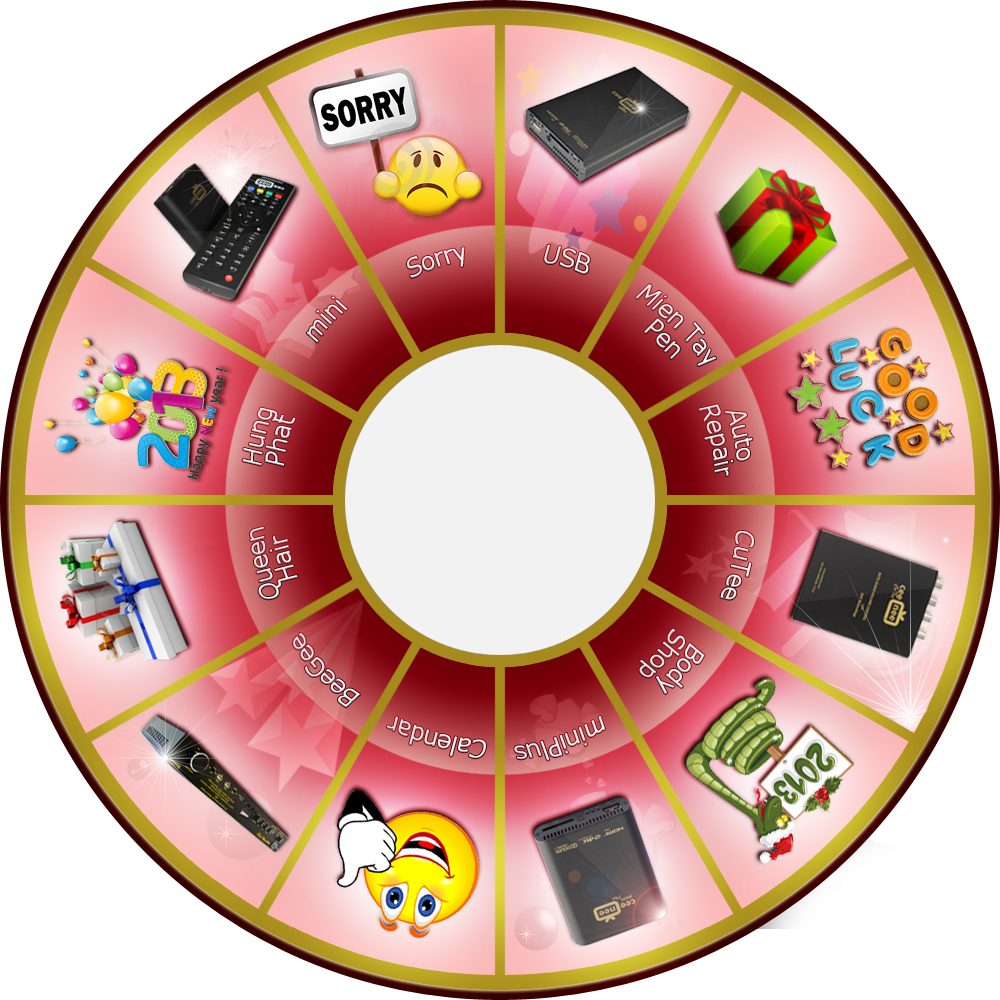
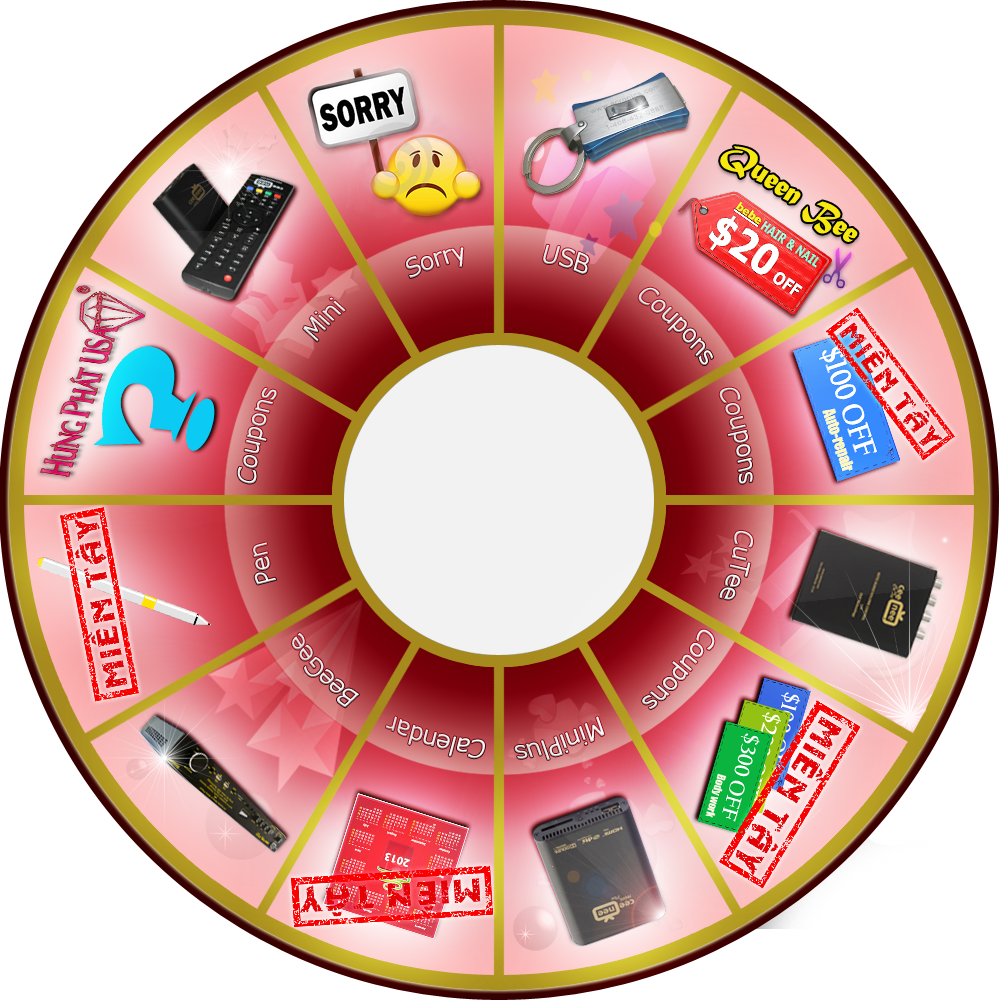
Changed Queen Bee to Pen, changed wheel pic

diff --git a/scripts/app.js b/scripts/app.js
@@ -21,14 +21,14 @@ define(['jquery', 'underscore', 'backbone', 'buzz', 'localStorage'], function ($
 
         this.awards = [
             {sku: 'ceenee_usb', name:"USB",chance:"83",amount:50, src: 'ceenee.png', w: 10}, 
-            {sku:     'mt_pen', name:"MienTay Pen",chance:"70",amount:500, src: 'cutee.jpg', w: 20},
+            {sku:     'queen_hair_nail', name:"Queen's Hair",chance:"15",amount:3, src: 'cutee.jpg', w: 90},
             {sku: 'mt_auto_repair', name:"AutoRepair Coupon",chance:"15",amount:2, w: 30},
             {sku: 'ceenee_cutee', name:"CuTee",chance:"10",amount:5, src: 'cutee.jpg', w: 40},
             {sku: 'mt_body_work', name:"Bodyshop Coupon",chance:"15",amount:3, w: 50},
             {sku: 'ceenee_miniplus', name:"miniPlus",chance:"2",amount:1,src: 'miniplus.jpg', w: 60},
             {sku: 'mt_calendar', name:"Calendar",chance:"40",amount:20, w: 70},
             {sku: 'ceenee_beegee', name:"BeeGee",chance:"0.1",amount:1, src: 'beegee.jpg', w: 80},
-            {sku: 'queen_hair_nail', name:"Queen's Hair",chance:"15",amount:3, w: 90},
+            {sku: 'mt_pen', name:"MienTay Pen",chance:"70",amount:500, w: 20},
             {sku: 'hungphat_usa', name:"Hung Phat",chance:"15",amount:2, w: 100},
             {sku: 'ceenee_mini', name:"mini",chance:"5",amount:2, src: 'mini.jpg',w: 110},
             {sku: 'ceenee_sorry', name:"Sorry",chance:"20",amount:999999, src: 'cutee.jpg', w: 120}
@@ -153,7 +153,7 @@ define(['jquery', 'underscore', 'backbone', 'buzz', 'localStorage'], function ($
           var totalS = 0;  
           if (five < (totalS += awards.at(3).get('chance')) && awards.at(3).get('amount') > 0)wantedSlot = 3              //AutoRepair 15%
           else if (five < (totalS += awards.at(5).get('chance')) && awards.at(5).get('amount') > 0) wantedSlot = 5          //BodyShop 15%
-          else if (five < (totalS += awards.at(9).get('chance')) && awards.at(9).get('amount') > 0) wantedSlot = 9          //Queen's Hair 15%
+          else if (five < (totalS += awards.at(2).get('chance')) && awards.at(2).get('amount') > 0) wantedSlot = 2          //Queen's Hair 15%
           else if (five < (totalS += awards.at(10).get('chance')) && awards.at(10).get('amount') > 0) wantedSlot = 10       //HungPhat 15%
           else if (awards.at(7).get('amount') > 0) wantedSlot = 7                                               //Calendar 40%
         }         
@@ -162,7 +162,7 @@ define(['jquery', 'underscore', 'backbone', 'buzz', 'localStorage'], function ($
           var extra = Math.random() * 100          
           if (extra < 5 && awards.at(1).get('amount') > 0) wantedSlot = 1                                       //USB 5%          
           else if (extra < 10 && awards.at(7).get('amount') > 0) wantedSlot = 7                                 //Calendar 5%
-          else if (extra < 65 && awards.at(2).get('amount') > 0) wantedSlot = 2                                 //Pen 55%
+          else if (extra < 65 && awards.at(9).get('amount') > 0) wantedSlot = 9                                 //Pen 55%
           else  wantedSlot = 12                                                                       //Sorry  35%
         }
 
@@ -368,7 +368,7 @@ define(['jquery', 'underscore', 'backbone', 'buzz', 'localStorage'], function ($
         this.$el.slideDown('slow')
       } else {
         r.sound.sorry.play()
-        $('#result-fail').modal('show')        
+        // $('#result-fail').modal('show')        
       }
       
     },
